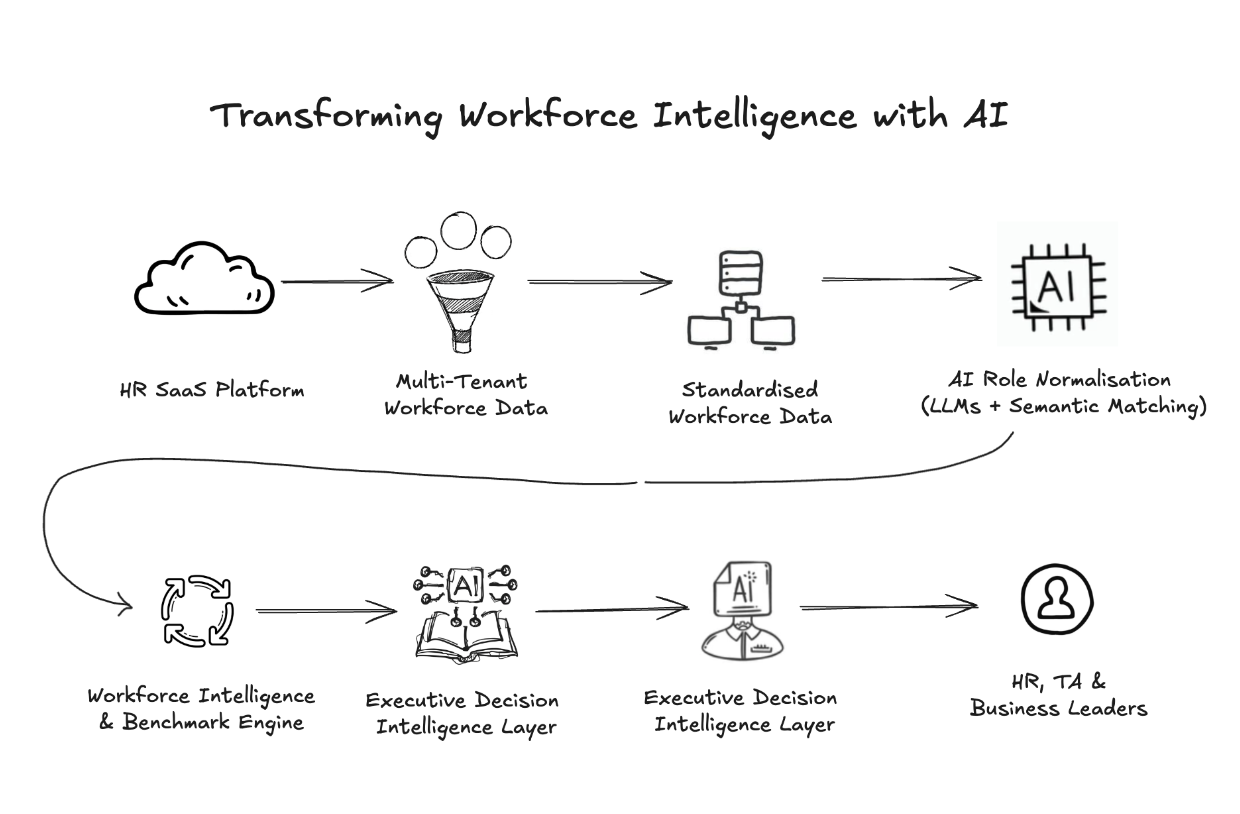
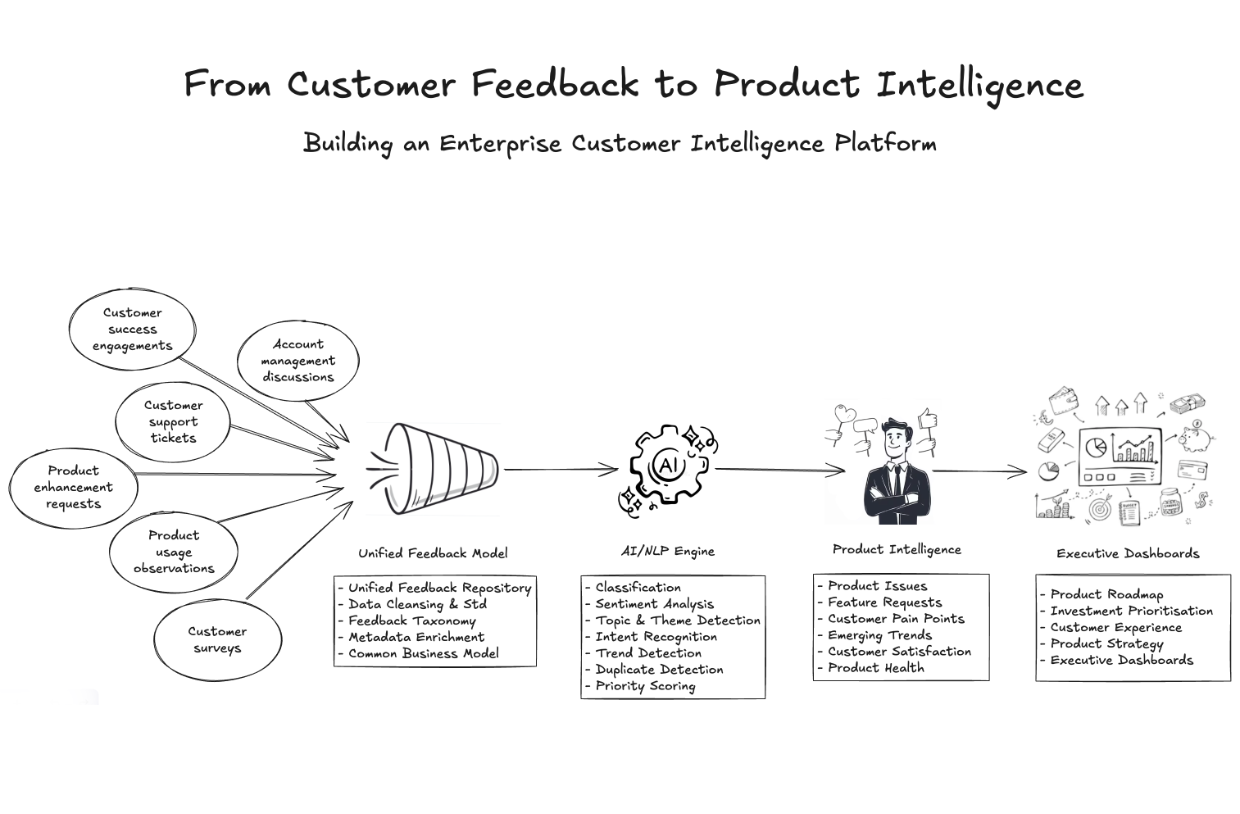
updated portfolio project2

diff --git a/lib/siteData.ts b/lib/siteData.ts
@@ -53,8 +53,9 @@ export const servicesData = [
         href: '/contact'
     },
     {
-        title: '', /*Top 10 */
-        description: '',
+        title: 'Something interesting coming soon...', /* 'Top 10' */
+        description: '', /* 'Recognized among the "Top 10 AI Leaders in India (2026)" for pioneering trusted enterprise data foundations and scalable AI solutions.' */
+        
     },
    
 ]
@@ -110,6 +111,10 @@ export const testimonialsData = [
         author: 'from Microsoft',
     },
     {
+        quote: 'Member of Technical Committee on Data Engineering (TCDE)',
+        author: 'branch of IEEE Computer Society',
+    },
+    {
         quote: 'Snowflake Hands-On Essentials',
         author: 'from Snowflake',
     },
@@ -129,10 +134,6 @@ export const testimonialsData = [
         quote: 'IBM Certified “Data Science & Machine Learning with Python',
         author: 'from IBM',
     },
-    {
-        quote: 'Astronomer Certification for Apache Airflow',
-        author: 'from Astronomer',
-    },
 ]
 
 export const portfolioData = {
@@ -140,9 +141,9 @@ export const portfolioData = {
     filterCategories: ["Show All", "Technology", "Leadership"],
     projects: [
         {
-            title: 'Transforming Workforce Intelligence with AI: Rethinking Compensation Benchmarking',
+            title: 'Transforming Workforce Intelligence with AI',
             slug: '1-project-title',
-            category: 'First',
+            category: 'Technology',
             excerpt: '',
             content: '',
             content2: '',
@@ -161,20 +162,20 @@ export const portfolioData = {
             },
         },
         {
-            title: 'Transforming Workforce Intelligence with AI: Rethinking Compensation Benchmarking',
+            title: 'From Customer Feedback to Product Intelligence',
             slug: '2-project-title',
-            category: 'Second',
+            category: 'Technology',
             excerpt: '',
             content: '',
             content2: '',
-            thumbnail: '/images/portfolio1.png',
+            thumbnail: '/images/portfolio2.png',
             client: 'vivekkulthe',
             images: [
                 '/images/portfolio2.png'
             ],
             projectLink: {
                 label: 'www.vivekkulthe.com',
-                url: 'https://medium.com/@vivek-kulthe/transforming-workforce-intelligence-with-ai-rethinking-compensation-benchmarking-4a86011245fc'
+                url: 'https://vivek-kulthe.medium.com/from-customer-feedback-to-product-intelligence-67a4dea8b60c'
             },
             video: {
                 thumbnail: '/images/blog-wide.png',
@@ -342,25 +343,25 @@ export const resumeData = {
             period: '2020 - 2024',
             title: 'Senior Engineering Manager - Data',
             company: 'atlassian',
-            description: 'Built and scaled a global Data Engineering organization, modernizing cloud data platforms, enabling $1M+ ARR opportunities, and optimizing technology costs.',
+            description: 'Built and scaled a global Data Engineering organization, leading enterprise cloud modernization, data governance, and AI-ready platforms that accelerated business growth, enabled $1M+ ARR opportunities, and reduced technology costs.',
         },
         {
             period: '2017 - 2020',
             title: 'Senior Manager Data & BI',
             company: 'veritas',
-            description: 'Transformed enterprise Data Engineering, Business Intelligence, and IT capabilities through cloud modernization, strengthening data trust and operational efficiency.',
+            description: 'Led enterprise Data Engineering, Analytics, and IT transformation, modernizing cloud data platforms on AWS while strengthening data trust, operational efficiency, and organizational capabilities..',
         },
         {
             period: '2015 - 2017',
             title: 'Assistant Vice President',
             company: 'credit-suisse',
-            description: 'Delivered enterprise analytics and cloud modernization initiatives for Risk & Finance, improving platform reliability, governance, and business decision-making.',
+            description: 'Architected and led enterprise BI platforms and led Oracle Cloud migration initiatives for Risk & Finance, improving platform reliability, scalability, governance, and data-driven decision-making.',
         },
         {
             period: '2014 - 2015',
             title: 'Software Engineering Associate Manager',
             company: 'accenture',
-            description: 'Managed enterprise BI programs for global clients, delivering scalable analytics solutions that enhanced reporting, operational visibility, and business value.',
+            description: 'Managed enterprise Oracle BI initiatives from design through delivery, leading teams to build scalable data models, ETL pipelines, and executive reporting solutions that increased business insight and delivery excellence.',
         },
         {
             period: '2010 - 2013',

diff --git a/app/portfolio/client-page.tsx b/app/portfolio/client-page.tsx
@@ -79,7 +79,7 @@ export default function PortfolioPage() {
                                     {project.category}
                                 </div>
                                 <div className="z-[1] absolute right-5 bottom-5 left-5 opacity-50 transition ease-linear duration-75 group-hover:opacity-100">
-                                    <h2 className="font-outfit font-semibold text-3xl text-white">{project.title}</h2>
+                                    <h2 className="font-outfit font-semibold text-3xl text-gray-500">{project.title}</h2>
                                 </div>
                             {/* </Link> */}
                             </a>

diff --git a/components/Portfolio.tsx b/components/Portfolio.tsx
@@ -102,7 +102,7 @@ export default function Portfolio() {
                                         </div>
                                         <div className="z-[1] absolute top-5 right-5 bg-charcoal/30 px-4 py-2 rounded-full backdrop-blur-[5px] font-outfit font-medium uppercase text-sm text-white tracking-[1px] invisible opacity-0 transition-all ease-linear duration-100 group-hover:visible group-hover:opacity-100">{project.category}</div>
                                         <div className="z-[1] absolute right-5 bottom-5 left-5 opacity-50 transition ease-linear duration-75 group-hover:opacity-100">
-                                            <h2 className="font-outfit font-semibold text-3xl text-white">{project.title}</h2>
+                                            <h2 className="font-outfit font-semibold text-3xl text-gray-500">{project.title}</h2>
                                         </div>
                                     {/*</Link>*/}
                                     </a>